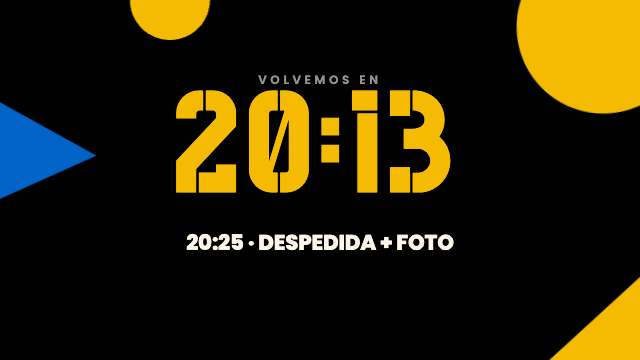
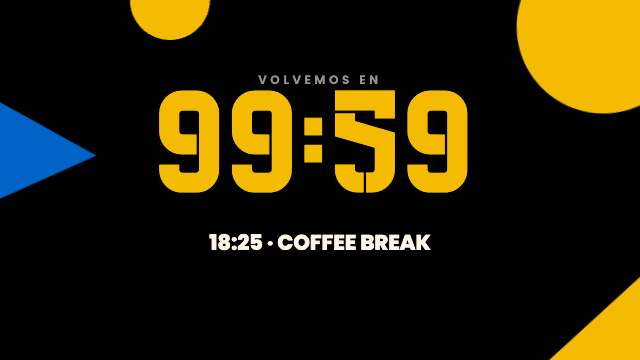
fix(stage): the wall's defaults read the day's real program and talks
The stage program still said "Charla 1/2", had the old marketplace label and
no After; the talk timers ran 20 minutes for 40-minute talks; the open space
rounds were three made-up blocks.

- DAY_TIMES in app/conf/talks.ts (recepción, despedida, after) joins
  OPEN_SPACE_TIMES and TALKS as the one source for the day's times: the /conf
  agenda and the wall's DEFAULT_PROGRAM both read them.
- Talk scenes (speaker, talk, lineup, lower-third, talk-timer) default to the
  real talks; reminders, check-in, coffee, timeline and ticker follow the times.
- rounds with no rounds typed reads the open space grid's blocks (live, like
  grid); room with no name shows the first room.
- quiz and trivia defaults were wrong (OWU exists since 2011, the first CONF
  is 2026).
- The 21 thumbnails whose defaults changed, regenerated.

Changed region(s): [[0.25, 0.2444, 0.75, 0.55], [0.2812, 0.6417, 0.7188, 0.7028]]

diff --git a/src/lib/owy-stage/scenes.ts b/src/lib/owy-stage/scenes.ts
@@ -1,6 +1,6 @@
 import { z } from "zod";
 
-import { TALKS } from "app/conf/talks";
+import { DAY_TIMES, OPEN_SPACE_TIMES, TALKS, type Talk } from "app/conf/talks";
 
 /**
  * Owy Stage — the video-wall scene registry shared by the oRPC layer (what an
@@ -10,9 +10,29 @@ import { TALKS } from "app/conf/talks";
 
 export const OWY_STAGE_CHANNEL = "owy-stage";
 
-/** The 2026 rundown (staff spreadsheet); editable from the admin on the day. */
-const DEFAULT_PROGRAM =
-  "14:30 Recepción y acreditación | 15:00 Bienvenida | 15:15 Explicación open space + marketplace | 16:00 Open Space | 18:25 Coffee Break | 19:00 Charla 1 | 19:45 Charla 2 | 20:25 Despedida + foto";
+const toMinutes = (time: string) => Number(time.slice(0, 2)) * 60 + Number(time.slice(3));
+/** "HH:MM" moved by some minutes (negative = earlier). */
+const shift = (time: string, minutes: number) => {
+  const total = toMinutes(time) + minutes;
+
+  return `${String(Math.floor(total / 60)).padStart(2, "0")}:${String(total % 60).padStart(2, "0")}`;
+};
+const speakerNames = (talk: Talk) => talk.speakers.map((speaker) => speaker.name).join(" y ");
+const FIRST_TALK = TALKS[0];
+const TALK_MINUTES = toMinutes(FIRST_TALK.end) - toMinutes(FIRST_TALK.start);
+const { mercado, sesiones, coffee } = OPEN_SPACE_TIMES;
+
+/** The day as /conf shows it (same times, from app/conf/talks); editable from the admin on the day. */
+const DEFAULT_PROGRAM = [
+  `${DAY_TIMES.recepcion.start} Recepción y acreditación`,
+  `${OPEN_SPACE_TIMES.bienvenida.start} Bienvenida`,
+  `${mercado.start} Mercado de ideas`,
+  `${sesiones.start} Open space`,
+  `${coffee.start} Coffee break`,
+  ...TALKS.map((talk) => `${talk.start} Charla · ${speakerNames(talk)}`),
+  `${DAY_TIMES.despedida.start} Despedida y foto`,
+  `${DAY_TIMES.after.start} After`,
+].join(" | ");
 
 const DEPARTMENTS =
   "Montevideo | Canelones | Maldonado | Colonia | San José | Salto | Paysandú | Rivera | Tacuarembó | Cerro Largo | Rocha | Florida | Lavalleja | Durazno | Soriano | Río Negro | Artigas | Treinta y Tres | Flores | Otro país";
@@ -204,7 +224,7 @@ export const SCENES = {
     params: z.object({
       title: z.string().trim().max(40).default("Así va el día"),
       items: z.string().trim().max(1200).default(DEFAULT_PROGRAM),
-      end: z.string().trim().max(5).default("20:40"),
+      end: z.string().trim().max(5).default(DAY_TIMES.despedida.end),
     }),
   },
   pipeline: {
@@ -238,7 +258,7 @@ export const SCENES = {
         .string()
         .trim()
         .regex(/^\d{1,2}:\d{2}$/, "HH:MM")
-        .default("17:30"),
+        .default(FIRST_TALK.start),
     }),
   },
   reminders: {
@@ -251,7 +271,13 @@ export const SCENES = {
         .trim()
         .max(1200)
         .default(
-          "15:55 El open space arranca en 5 minutos: buscá tu sala | 18:20 Coffee break en 5 minutos en el hall | 18:55 Las charlas empiezan a las 19:00 en el escenario | 20:20 Foto grupal en 5 minutos en el escenario"
+          [
+            `${shift(mercado.start, -5)} En 5 minutos arranca el mercado de ideas: pensá tu tema`,
+            `${shift(sesiones.start, -5)} El open space arranca en 5 minutos: buscá tu sala`,
+            `${shift(coffee.start, -5)} Coffee break en 5 minutos en el hall`,
+            `${shift(FIRST_TALK.start, -5)} Las charlas empiezan a las ${FIRST_TALK.start} en el escenario`,
+            `${shift(DAY_TIMES.despedida.start, -5)} Foto grupal en 5 minutos en el escenario`,
+          ].join(" | ")
         ),
       hold: z.number().int().min(1).max(60).default(8),
     }),
@@ -304,8 +330,8 @@ export const SCENES = {
     title: "Lower third",
     description: "Nombre y charla del speaker; pensado para ?bg=transparent sobre la cámara.",
     params: z.object({
-      title: z.string().trim().max(60).default("Nombre Apellido"),
-      subtitle: z.string().trim().max(100).default("Título de la charla"),
+      title: z.string().trim().max(60).default(speakerNames(FIRST_TALK)),
+      subtitle: z.string().trim().max(100).default(FIRST_TALK.title),
     }),
   },
   speaker: {
@@ -313,9 +339,9 @@ export const SCENES = {
     title: "Speaker",
     description: "La tarjeta de presentación antes de una charla: nombre, empresa y título.",
     params: z.object({
-      name: z.string().trim().max(60).default("Nombre Apellido"),
-      company: z.string().trim().max(60).default(""),
-      talk: z.string().trim().max(120).default("Título de la charla"),
+      name: z.string().trim().max(60).default(speakerNames(FIRST_TALK)),
+      company: z.string().trim().max(60).default(FIRST_TALK.speakers[0].role),
+      talk: z.string().trim().max(120).default(FIRST_TALK.title),
     }),
   },
   talk: {
@@ -323,9 +349,9 @@ export const SCENES = {
     title: "Charla en curso",
     description: "Título, speaker y un reloj de charla que arranca al ponerla en pantalla.",
     params: z.object({
-      title: z.string().trim().max(90).default("Título de la charla"),
-      speaker: z.string().trim().max(60).default("Speaker"),
-      minutes: z.coerce.number().int().min(1).max(180).default(20),
+      title: z.string().trim().max(90).default(FIRST_TALK.title),
+      speaker: z.string().trim().max(60).default(speakerNames(FIRST_TALK)),
+      minutes: z.coerce.number().int().min(1).max(180).default(TALK_MINUTES),
     }),
   },
   lineup: {
@@ -335,12 +361,24 @@ export const SCENES = {
     params: z.object({
       eyebrow: z.string().trim().max(60).default("Después del coffee"),
       title: z.string().trim().max(40).default("Charlas"),
-      h1: z.string().trim().max(5).default("19:00"),
-      t1: z.string().trim().max(90).default("Charla 1"),
-      s1: z.string().trim().max(60).default(""),
-      h2: z.string().trim().max(5).default("19:45"),
-      t2: z.string().trim().max(90).default("Charla 2"),
-      s2: z.string().trim().max(60).default(""),
+      h1: z.string().trim().max(5).default(TALKS[0].start),
+      t1: z.string().trim().max(90).default(TALKS[0].title),
+      s1: z.string().trim().max(60).default(speakerNames(TALKS[0])),
+      h2: z
+        .string()
+        .trim()
+        .max(5)
+        .default(TALKS[1]?.start ?? ""),
+      t2: z
+        .string()
+        .trim()
+        .max(90)
+        .default(TALKS[1]?.title ?? ""),
+      s2: z
+        .string()
+        .trim()
+        .max(60)
+        .default(TALKS[1] ? speakerNames(TALKS[1]) : ""),
       h3: z.string().trim().max(5).default(""),
       t3: z.string().trim().max(90).default(""),
       s3: z.string().trim().max(60).default(""),
@@ -376,7 +414,7 @@ export const SCENES = {
     description: "Cuenta regresiva para quien habla: arranca al ponerla en pantalla, avisa al final.",
     params: z.object({
       title: z.string().trim().max(40).default("Tiempo de charla"),
-      minutes: z.number().int().min(1).max(180).default(20),
+      minutes: z.number().int().min(1).max(180).default(TALK_MINUTES),
       warn: z.number().int().min(0).max(60).default(5),
     }),
   },
@@ -453,8 +491,8 @@ export const SCENES = {
   room: {
     category: "openspace",
     title: "Sala",
-    description: "El día completo de una sala del open space; para la pantalla de la puerta.",
-    params: z.object({ room: z.string().trim().max(40).default("Lobby") }),
+    description: "El día completo de una sala del open space; para la pantalla de la puerta. Vacío = la primera sala.",
+    params: z.object({ room: z.string().trim().max(40).default("") }),
   },
   "room-cards": {
     category: "openspace",
@@ -465,10 +503,11 @@ export const SCENES = {
   rounds: {
     category: "openspace",
     title: "Rondas del open space",
-    description: "Ronda actual, tiempo restante y las que faltan; el reloj facilita solo. Formato HH:MM-HH:MM | …",
+    description:
+      "Ronda actual, tiempo restante y las que faltan; el reloj facilita solo. Vacío = los bloques de la grilla; o a mano: HH:MM-HH:MM | …",
     params: z.object({
       title: z.string().trim().max(40).default("Open space"),
-      rounds: z.string().trim().max(300).default("16:00-16:40 | 16:45-17:25 | 17:30-18:10"),
+      rounds: z.string().trim().max(300).default(""),
     }),
   },
   hosts: {
@@ -624,7 +663,9 @@ export const SCENES = {
         .string()
         .trim()
         .max(600)
-        .default("WiFi: OWU-CONF · Próxima charla 16:00 · Proponé tu charla en el open space · #OWUCONF"),
+        .default(
+          `WiFi: OWU-CONF · Charlas desde las ${FIRST_TALK.start} · Proponé tu tema en el mercado de ideas · #OWUCONF`
+        ),
     }),
   },
   marquee: {
@@ -650,7 +691,11 @@ export const SCENES = {
     title: "Acreditación",
     description: "Los pasos de la recepción y el aviso de fotos, para la pantalla del lobby a las 14:30.",
     params: z.object({
-      eyebrow: z.string().trim().max(60).default("Bienvenidos · 14:30 a 15:00"),
+      eyebrow: z
+        .string()
+        .trim()
+        .max(60)
+        .default(`Bienvenidos · ${DAY_TIMES.recepcion.start} a ${DAY_TIMES.recepcion.end}`),
       step1: z.string().trim().max(90).default("Buscá tu nombre en la lista o mostrá tu entrada"),
       step2: z.string().trim().max(90).default("Retirá tu lanyard y los stickers"),
       step3: z.string().trim().max(90).default("Dejá el abrigo en guardarropa y pasá al hall"),
@@ -696,7 +741,7 @@ export const SCENES = {
     description: "Qué hay para comer y a qué hora. Formato: emoji Nombre: detalle | …",
     params: z.object({
       title: z.string().trim().max(40).default("Coffee break"),
-      time: z.string().trim().max(5).default("18:25"),
+      time: z.string().trim().max(5).default(coffee.start),
       items: z
         .string()
         .trim()
@@ -982,12 +1027,12 @@ export const SCENES = {
     title: "Quiz en vivo",
     description: "Pregunta con cuatro opciones; se responde desde el celular y al terminar se revela quién acertó.",
     params: z.object({
-      question: z.string().trim().max(140).default("¿En qué año se fundó OWU?"),
-      a: z.string().trim().max(60).default("2019"),
-      b: z.string().trim().max(60).default("2021"),
-      c: z.string().trim().max(60).default("2023"),
-      d: z.string().trim().max(60).default("2024"),
-      answer: z.string().trim().max(1).default("C"),
+      question: z.string().trim().max(140).default("¿Desde qué año existe OWU?"),
+      a: z.string().trim().max(60).default("2011"),
+      b: z.string().trim().max(60).default("2015"),
+      c: z.string().trim().max(60).default("2019"),
+      d: z.string().trim().max(60).default("2023"),
+      answer: z.string().trim().max(1).default("A"),
       seconds: z.number().int().min(5).max(180).default(30),
     }),
   },
@@ -1376,11 +1421,11 @@ export const SCENES = {
     title: "Trivia",
     description: "Pregunta con cuatro opciones; cuenta regresiva y revela la correcta con confetti.",
     params: z.object({
-      question: z.string().trim().max(140).default("¿En qué año fue la primera OWU CONF?"),
-      a: z.string().trim().max(60).default("2019"),
-      b: z.string().trim().max(60).default("2022"),
-      c: z.string().trim().max(60).default("2024"),
-      d: z.string().trim().max(60).default("2025"),
+      question: z.string().trim().max(140).default("¿Cuántas ediciones de La Meetup hubo antes de OWU CONF?"),
+      a: z.string().trim().max(60).default("Una"),
+      b: z.string().trim().max(60).default("Dos"),
+      c: z.string().trim().max(60).default("Tres"),
+      d: z.string().trim().max(60).default("Cuatro"),
       answer: z.string().trim().max(1).default("C"),
       seconds: z.number().int().min(0).max(120).default(20),
     }),

diff --git a/src/components/OwyStage/scenes/service.tsx b/src/components/OwyStage/scenes/service.tsx
@@ -10,7 +10,7 @@ import { formatTime } from "lib/utils";
 
 import { Ambient, BRAND, StageContext } from "../Stage";
 import { QrCode, Rise } from "./parts";
-import { parseProgram, secondsUntil, useNow } from "./useful";
+import { EmptyText, parseProgram, secondsUntil, useBoard, useNow } from "./useful";
 
 export const splitList = (value: string) =>
   value
@@ -52,9 +52,24 @@ function parseRounds(value: string): Round[] {
     .map((match) => ({ start: match[1].padStart(5, "0"), end: match[2].padStart(5, "0") }));
 }
 
-export function Rounds({ params }: SceneProps<"rounds">) {
+export function Rounds({ params, eventId }: SceneProps<"rounds">) {
+  const { preview } = useContext(StageContext);
   const now = useNow(1000);
-  const rounds = useMemo(() => parseRounds(params.rounds), [params.rounds]);
+  // Typed rounds win; otherwise the open space grid's own blocks, so a moved block moves here too.
+  const board = useBoard(params.rounds ? null : eventId, preview);
+  const rounds = useMemo(
+    () =>
+      params.rounds
+        ? parseRounds(params.rounds)
+        : (board?.schedules ?? [])
+            .filter((slot) => slot.isActive)
+            .map((slot) => ({ start: slot.startTime.slice(0, 5), end: slot.endTime.slice(0, 5) }))
+            .sort((a, b) => a.start.localeCompare(b.start)),
+    [params.rounds, board]
+  );
+  if (!params.rounds && !eventId) return <EmptyText text="Elegí un evento en el admin" />;
+  if (!params.rounds && !board) return null;
+  if (!rounds.length) return <EmptyText text="Todavía no hay bloques en la grilla" />;
   const active = rounds.findIndex((r) => r.start <= now && now < r.end);
   const nextIndex = rounds.findIndex((r) => r.start > now);
   const over = rounds.length > 0 && now >= rounds[rounds.length - 1].end;

diff --git a/src/app/conf/components/Program.tsx b/src/app/conf/components/Program.tsx
@@ -19,7 +19,7 @@ import { useEffect, useRef, useState } from "react";
 
 import { CONF_DATES } from "app/lib/constants";
 
-import { OPEN_SPACE_TIMES, TALKS, type Talk } from "../talks";
+import { DAY_TIMES, OPEN_SPACE_TIMES, TALKS, type Talk } from "../talks";
 
 import Reveal, { EASE_OUT } from "./Reveal";
 import SectionHeader from "./SectionHeader";
@@ -179,8 +179,7 @@ const speakerNames = ({ speakers }: Talk) => speakers.map(({ name }) => name).jo
  */
 const SESSIONS: Session[] = [
   {
-    start: "14:30",
-    end: "15:00",
+    ...DAY_TIMES.recepcion,
     title: "Recepción y acreditación",
     blurb: "Registro, credenciales y café de bienvenida",
     description: (
@@ -283,8 +282,7 @@ const SESSIONS: Session[] = [
     iconAnim: "group-hover:animate-agenda-tap",
   },
   {
-    start: "20:25",
-    end: "20:40",
+    ...DAY_TIMES.despedida,
     title: "Despedida y foto",
     blurb: "Agradecimientos y foto de toda la comunidad",
     description: (
@@ -297,7 +295,7 @@ const SESSIONS: Session[] = [
     iconAnim: "group-hover:animate-agenda-flash",
   },
   {
-    start: "20:40",
+    ...DAY_TIMES.after,
     title: "After",
     blurb: "Te invitamos a seguirla un rato más",
     description: (

diff --git a/src/components/OwyStage/scenes/useful.tsx b/src/components/OwyStage/scenes/useful.tsx
@@ -196,7 +196,10 @@ export function RoomDay({ params, eventId }: SceneProps<"room">) {
   if (!data) return null;
 
   const wanted = params.room.trim().toLowerCase();
-  const room = data.rooms.find((candidate) => candidate.name.trim().toLowerCase() === wanted);
+  // No name: the first room of the grid, so the scene shows something real out of the box.
+  const room = wanted
+    ? data.rooms.find((candidate) => candidate.name.trim().toLowerCase() === wanted)
+    : data.rooms.filter((candidate) => candidate.isActive).sort((a, b) => a.sortOrder - b.sortOrder)[0];
   if (!room) {
     return (
       <EmptyText

diff --git a/src/app/conf/talks.ts b/src/app/conf/talks.ts
@@ -81,3 +81,10 @@ export const OPEN_SPACE_TIMES = {
   /** The break runs into the first talk. */
   coffee: { start: "18:25", end: TALKS[0].start },
 } as const;
+
+/** The rest of the day around the open space and the talks; the agenda and the wall's program read it. */
+export const DAY_TIMES = {
+  recepcion: { start: "14:30", end: OPEN_SPACE_TIMES.bienvenida.start },
+  despedida: { start: TALKS[TALKS.length - 1].end, end: "20:40" },
+  after: { start: "20:40" },
+} as const;
